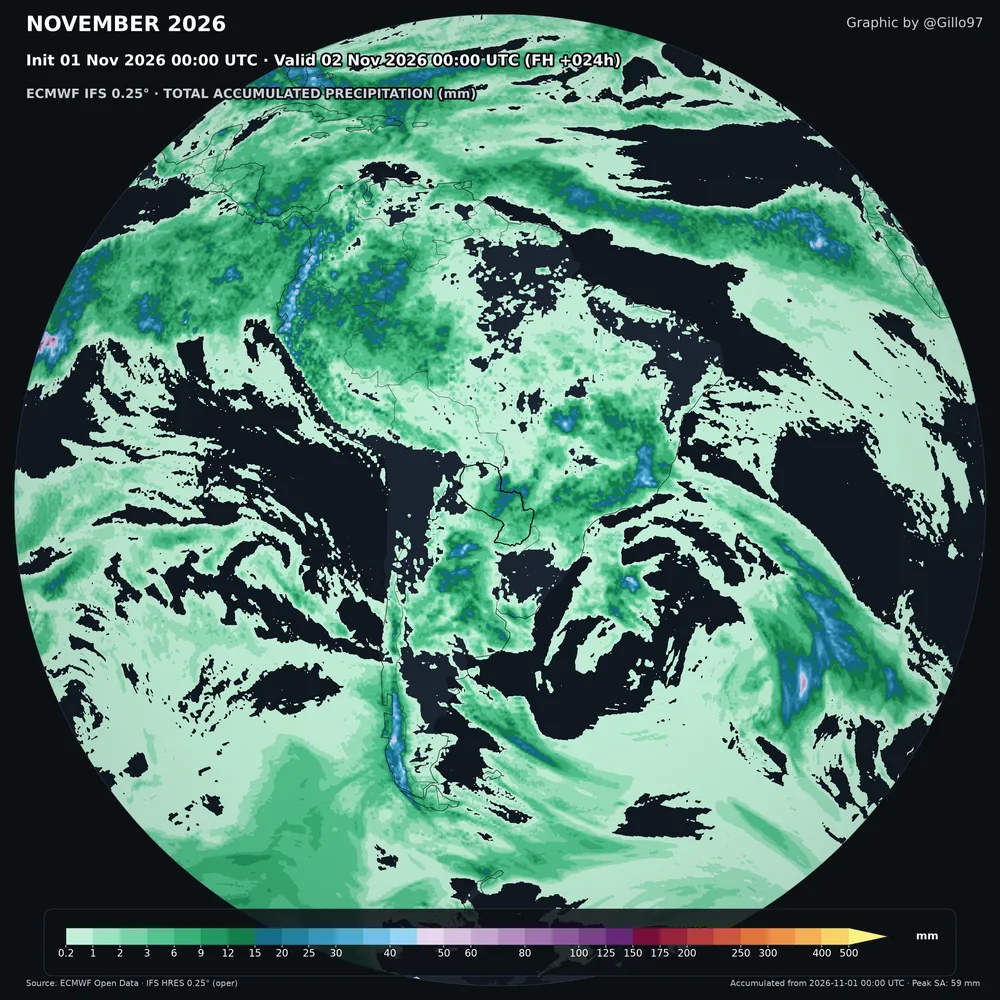
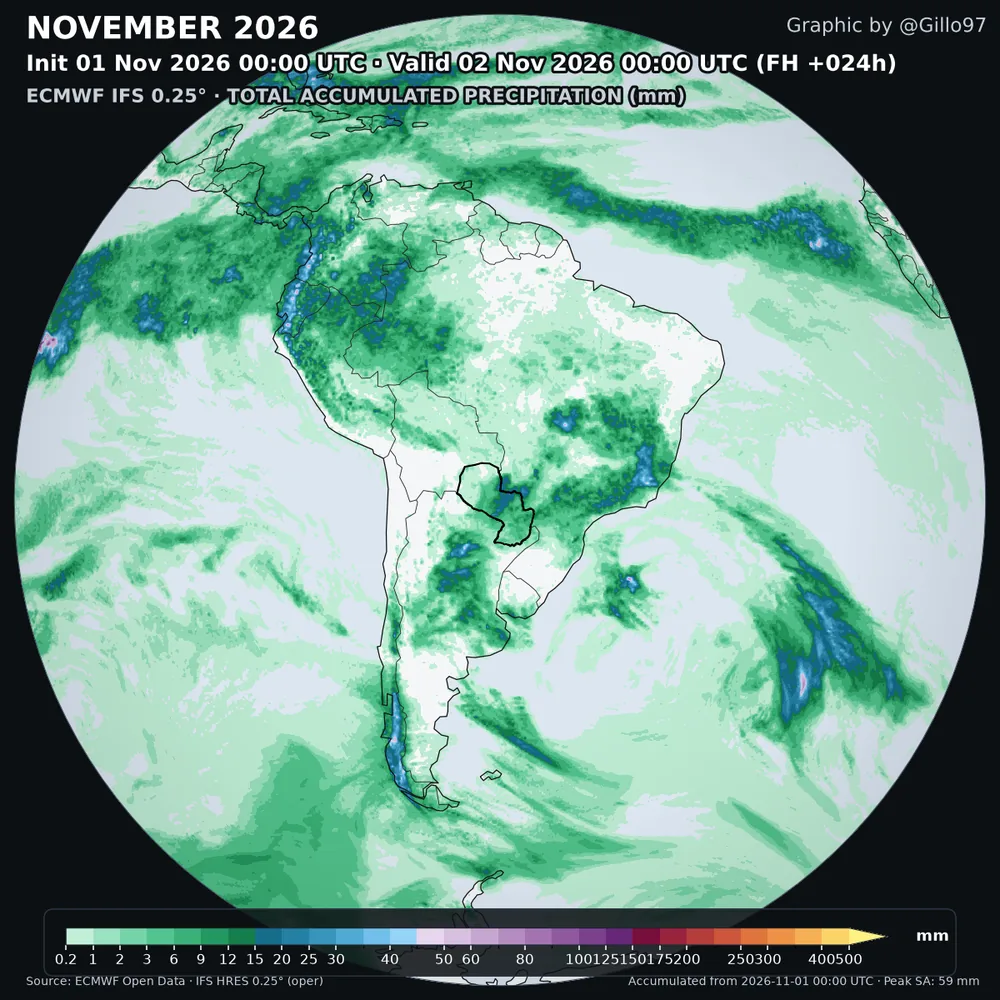
feat(app): covers that follow the selected satellite, palette, model and projection

diff --git a/app/web/src/components/RecipeForm.tsx b/app/web/src/components/RecipeForm.tsx
@@ -53,6 +53,16 @@ export function RecipeForm({
 }: Props) {
   const pideDescarga = product.params.some((spec) => spec.name === "descargar");
   const ultimaFecha = dates?.dates.at(0) ?? "";
+  // La placa muestra el render de la opcion elegida: satelite, paleta, modelo...
+  const variante = product.previews.find((muestra) =>
+    Object.entries(muestra.when).every(
+      ([clave, esperado]) => params[clave] === esperado,
+    ),
+  );
+  const muestra = variante?.url ?? product.preview;
+  const detalleMuestra = variante
+    ? Object.values(variante.when).join(" · ")
+    : "";
   const ayudaFecha =
     dates && dates.source === "descubierto"
       ? `${dates.dates.length} ${
@@ -77,14 +87,14 @@ export function RecipeForm({
         </div>
       </div>
 
-      {product.preview ? (
+      {muestra ? (
         <figure className="plate">
           <div className="plate__frame">
-            <img src={product.preview} alt={`Resultado de ${product.name}`} />
+            <img src={muestra} alt={`Resultado de ${product.name}`} />
           </div>
           <figcaption className="plate__cap">
             <span>salida real de este producto</span>
-            <span>{product.id}</span>
+            <span>{detalleMuestra ? `${product.id} · ${detalleMuestra}` : product.id}</span>
           </figcaption>
         </figure>
       ) : (

diff --git a/app/web/src/types.ts b/app/web/src/types.ts
@@ -21,6 +21,11 @@ export interface ParamSpec {
   enabled_when: Record<string, unknown> | null;
 }
 
+export interface PreviewVariant {
+  url: string;
+  when: Record<string, unknown>;
+}
+
 export interface Product {
   id: string;
   name: string;
@@ -29,6 +34,7 @@ export interface Product {
   summary: string;
   params: ParamSpec[];
   preview: string | null;
+  previews: PreviewVariant[];
   command_ready: boolean;
   command: string[] | null;
 }

diff --git a/app/api/catalog.py b/app/api/catalog.py
@@ -12,7 +12,7 @@ from datetime import date, timedelta
 from pathlib import Path
 
 from .recipes import repo_listo
-from .schemas import ParamOption, ParamSpec, Product
+from .schemas import ParamOption, ParamSpec, PreviewVariant, Product
 
 RAIZ_REPO = Path(__file__).resolve().parents[2]
 
@@ -555,7 +555,7 @@ PRODUCTS: list[Product] = [
                 step=6,
                 help="los pasos de 3 h llegan hasta 144 h",
             ),
-            ParamSpec(name="fondo", label="Fondo del globo", kind="select", default="oscuro", options=_FONDO),
+            ParamSpec(name="fondo", label="Fondo del globo", kind="select", default="claro", options=_FONDO),
             ParamSpec(name="resolucion", label="Resolucion", kind="select", default="1400", options=_RESOLUCIONES),
             ParamSpec(name="descargar", label="Bajar los crudos", kind="toggle", default=True),
             ParamSpec(name="animar", label="Animar", kind="toggle", default=True),
@@ -697,6 +697,16 @@ PRODUCTS: list[Product] = [
         summary="Indice de vegetacion de PACE sobre fondo de poster, ventana por dias.",
         params=[
             ParamSpec(name="ventana", label="Ventana temporal", kind="date-range", default=_rango(20)),
+            ParamSpec(
+                name="proyeccion",
+                label="Proyeccion",
+                kind="select",
+                default="plano",
+                options=[
+                    ParamOption(value="plano", label="Plano (Robinson)"),
+                    ParamOption(value="globo", label="Globo (Orthographic)"),
+                ],
+            ),
             ParamSpec(name="resolucion", label="Resolucion", kind="select", default="1400", options=_RESOLUCIONES),
             ParamSpec(
                 name="descargar",
@@ -745,6 +755,43 @@ def get_product(product_id: str) -> Product | None:
     return _BY_ID.get(product_id)
 
 
+# Muestras por variante: el nombre del archivo es el contrato.
+#   previews/<producto>--<valor1>--<valor2>.webp
+# Los valores siguen el orden de esta tabla y se comparan con los parametros que
+# manda el formulario. Sin variante para la seleccion actual, se cae al sample.
+_VARIANTES = {
+    "goes_c13": ("satelite",),
+    "goes_banda": ("satelite", "paleta"),
+    "goes_truecolor": ("satelite", "encuadre", "limbo"),
+    "geocolor": ("satelite",),
+    "precipitacion_ecmwf": ("modelo",),
+    "anomalia_2t": ("modelo",),
+    "viento_250": ("modelo",),
+    "follaje": ("proyeccion",),
+}
+
+
+def _muestras(producto: Product, carpeta: Path) -> list[PreviewVariant]:
+    """Variantes que existen en disco para este producto."""
+    campos = _VARIANTES.get(producto.id)
+    if not campos:
+        return []
+    variantes: list[PreviewVariant] = []
+    for archivo in carpeta.glob(f"{producto.id}--*.webp"):
+        valores = archivo.stem.split("--")[1:]
+        if len(valores) != len(campos):
+            continue
+        variantes.append(
+            PreviewVariant(
+                url=f"/previews/{archivo.name}",
+                when=dict(zip(campos, valores)),
+            )
+        )
+    # La más específica primero: {satélite, paleta} gana sobre {satélite}.
+    variantes.sort(key=lambda v: (-len(v.when), v.url))
+    return variantes
+
+
 def productos_disponibles() -> list[Product]:
     """Marca cada producto segun si el entorno real esta listo y si hay muestra."""
     listo = repo_listo()
@@ -757,6 +804,7 @@ def productos_disponibles() -> list[Product]:
                 update={
                     "command_ready": listo,
                     "preview": f"/previews/{producto.id}.webp" if webp.is_file() else None,
+                    "previews": _muestras(producto, muestras),
                 }
             )
         )

diff --git a/app/api/schemas.py b/app/api/schemas.py
@@ -42,6 +42,17 @@ class ParamSpec(BaseModel):
     )
 
 
+class PreviewVariant(BaseModel):
+    """Muestra alternativa: se elige cuando los parametros coinciden.
+
+    Sirve para que la placa muestre el render real de la opcion elegida
+    (satelite, paleta, modelo, encuadre...) en vez de una sola imagen fija.
+    """
+
+    url: str
+    when: dict[str, Any] = Field(default_factory=dict)
+
+
 class Product(BaseModel):
     """Un flujo del repo expuesto como producto interactivo."""
 
@@ -54,6 +65,10 @@ class Product(BaseModel):
     preview: str | None = Field(
         default=None,
         description="WebP de muestra generado con el pipeline real, servido en /previews.",
+    )
+    previews: list[PreviewVariant] = Field(
+        default_factory=list,
+        description="Muestras por combinacion de parametros, de la mas especifica a la mas general.",
     )
     command_ready: bool = Field(
         default=False,

diff --git a/app/api/recipes.py b/app/api/recipes.py
@@ -775,6 +775,9 @@ def _follaje(params: dict[str, Any], work: Path) -> Plan:
     inicio, fin = _rango_de_la_corrida(params)
     px = _px(params, 1400)
     n = max(1, (fin - inicio).days + 1)
+    # Dos vestuarios para la misma data: mapa plano (Robinson) o globo realista.
+    globo = str(params.get("proyeccion", "plano")) == "globo"
+    script = "cuadros/cuadros_follaje_globo.py" if globo else "cuadros/cuadros_follaje.py"
 
     descarga = Step(
         kind="download",
@@ -785,8 +788,8 @@ def _follaje(params: dict[str, Any], work: Path) -> Plan:
     )
     render_step = Step(
         kind="render",
-        label="renderizando el follaje",
-        script="cuadros/cuadros_follaje.py",
+        label=f"renderizando el follaje ({'globo' if globo else 'plano'})",
+        script=script,
         args=[
             "--desde", inicio.isoformat(),
             "--hasta", fin.isoformat(),

diff --git a/app/README.md b/app/README.md
@@ -534,6 +534,10 @@ expone paleta, así que MUR no tiene selector de paleta.
 mientras otro no valga lo esperado: en Snapshot, encender `ultima` deja en gris `fecha`,
 `hora` y `minuto`, porque la última captura los ignora. Lo mismo con el switch
 `snapshot` de los demás productos: apaga `animar`, `fps` y el horario.
+- **La placa muestra la opci?n elegida.** El cat?logo publica muestras por variante
+  (`previews/<producto>--<valores>.webp`) y el formulario elige la que coincide con los
+  par?metros: cambiar el sat?lite, la paleta, el modelo o la proyecci?n cambia el render
+  de la placa. Sin variante para esa combinaci?n, cae a la muestra por defecto.
 - **Snapshot en cualquier producto.** El switch pide **un solo cuadro**: en GOES es el
   slot de siempre (el cenital), en los productos de GIBS el último día de la ventana y
   en los modelos sólo dos crudos (0 h y el horizonte) con `--solo-poster`. Nunca arma
